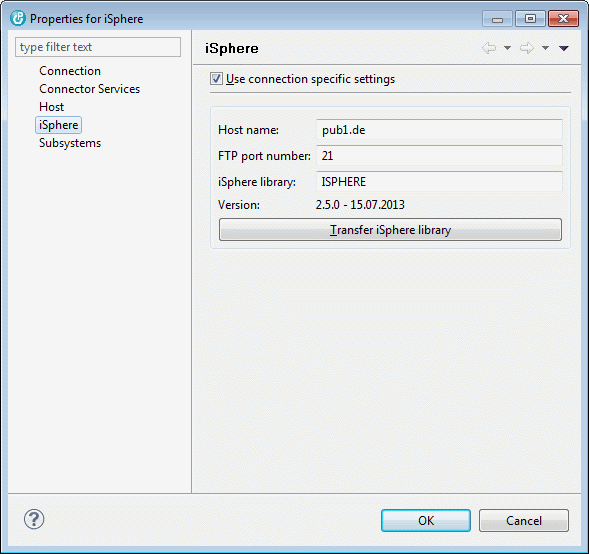
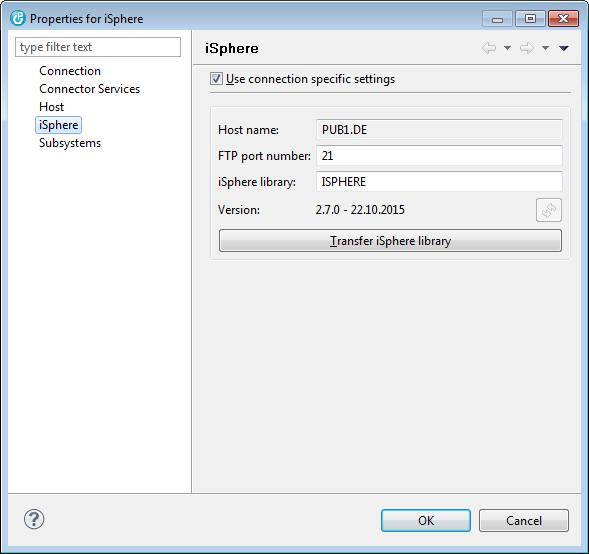
Improved the iSphere help.

Changed region(s): [[0.3667, 0.3375, 0.9779, 0.4603], [0.5501, 0.2148, 0.6418, 0.2455]]

diff --git a/eclipse/iSphere Help Core/html/connection/properties.html b/eclipse/iSphere Help Core/html/connection/properties.html
@@ -26,12 +26,19 @@
 	<table>
 	<tr><td valign="top" nowrap>Use connection specific settings</td><td valign="top">-</td><td valign="top">Specifies
 	                    whether or not to use connection specific settings.</td></tr>
-	<tr><td valign="top" nowrap>Host name</td><td valign="top">-</td><td valign="top">Specifies the 
-	                    DNS name of your server for uploading the iSphere library.</td></tr>
+	<tr><td valign="top" nowrap>Host name</td><td valign="top">-</td><td valign="top">Displays the 
+	                    DNS name of your server for uploading the iSphere library as specified at section 
+	                    'Host' of the connection properties.</td></tr>
 	<tr><td valign="top" nowrap>FTP port number</td><td valign="top">-</td><td valign="top">Specifies the 
 	                    FTP port number for uploading the iSphere library.</td></tr>
 	<tr><td valign="top" nowrap>iSphere library</td><td valign="top">-</td><td valign="top">Specifies the 
 	                    the name of the iSphere library that you want to use on your server.</td></tr>
+	<tr><td valign="top" nowrap>Version</td><td valign="top">-</td><td valign="top">Displays the version
+	                    of your iSphere library on the host. Use the refresh button to retrieve the version 
+	                    of the iSphere library. Once pressed, the version is automatically updated as the 
+	                    library name changes.</td></tr>
+	<tr><td valign="top" nowrap>Transfer iSphere Library</td><td valign="top">-</td><td valign="top">Use the 
+	                    [Transfer iSphere Library] button to upload the iSphere library to your host.</td></tr>
 	</table>
 	<p>
 	<iframe src="../copyright.html" width="100%" frameborder="0" marginheight="0" marginwidth="0"></iframe>
